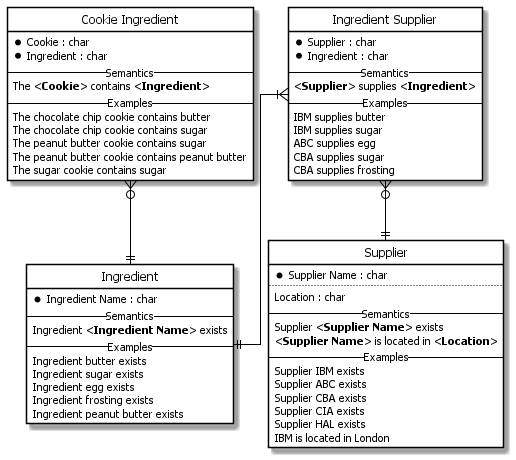
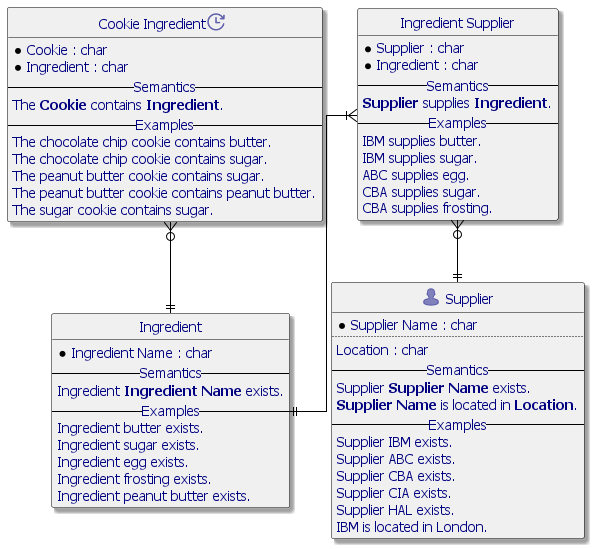
Upgraded to CaseTalk 12.6 and include the new EXP diagram

Changed region(s): [[0.0, 0.0, 0.9922, 1.0]]

diff --git a/EN/Cookies/README.md b/EN/Cookies/README.md
@@ -1,5 +1,5 @@
 # ![CaseTalk Logo](https://www.casetalk.com/images/icons/casetalk.png) Cookies.prj
-*Project created with CaseTalk v12.4 Build 2.28751.*
+*Project created with CaseTalk v12.6 Build 0.30996.*
 
 * ![Project](https://www.casetalk.com/images/icons/prj.png) Cookies.prj
   * ![Repository](https://www.casetalk.com/images/icons/ig.png) cookies.ig
@@ -13,3 +13,5 @@
 ![Diagram cookies.igd /UML](cookies.uml.png)
 ## cookies.igd /MAP
 ![Diagram cookies.igd /MAP](cookies.map.png)
+## cookies.igd /EXP
+![Diagram cookies.igd /EXP](cookies.exp.png)
